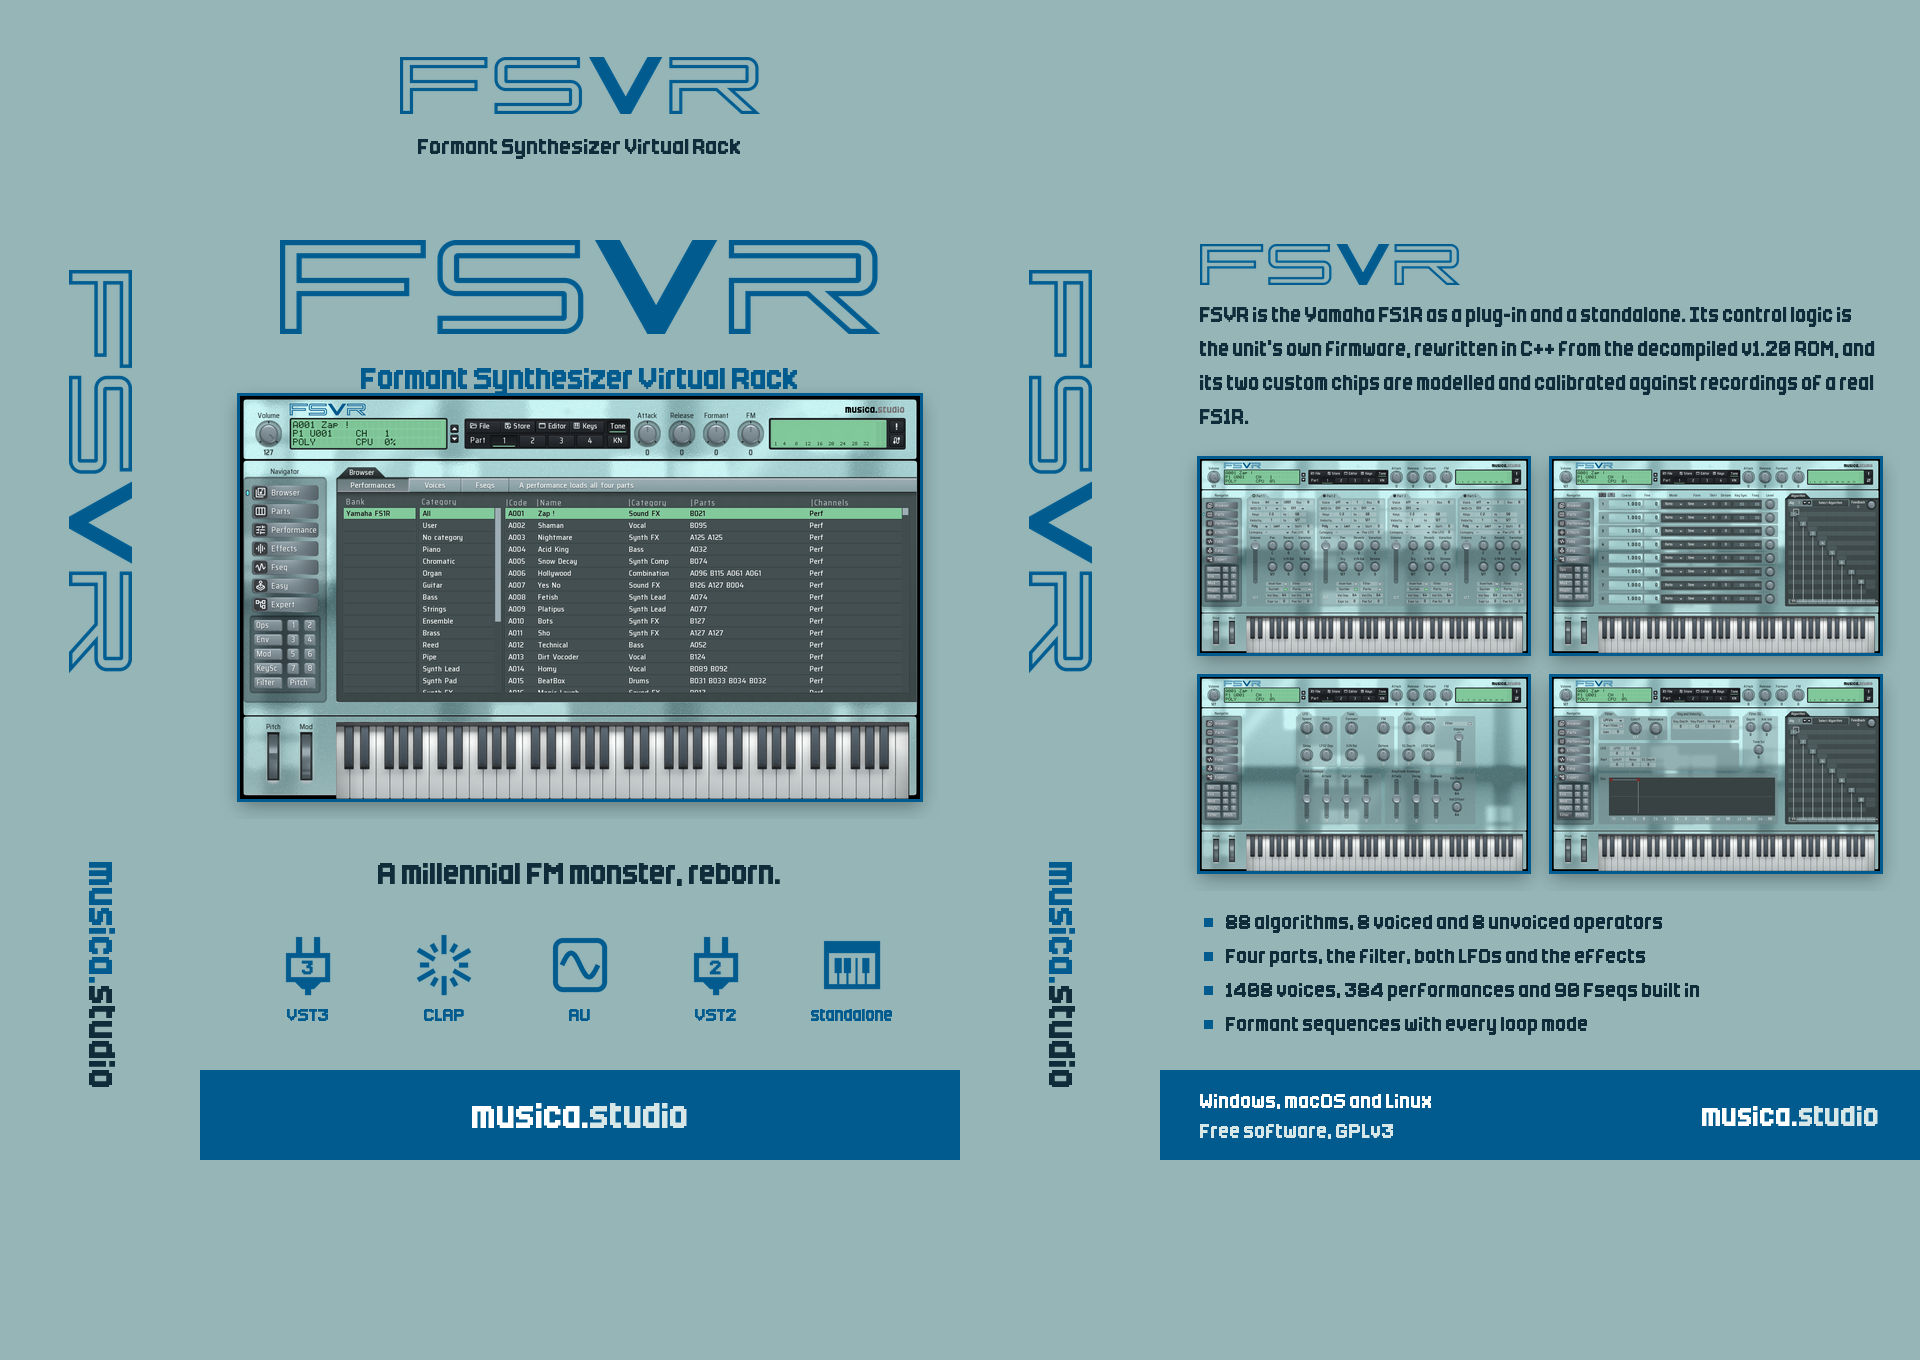
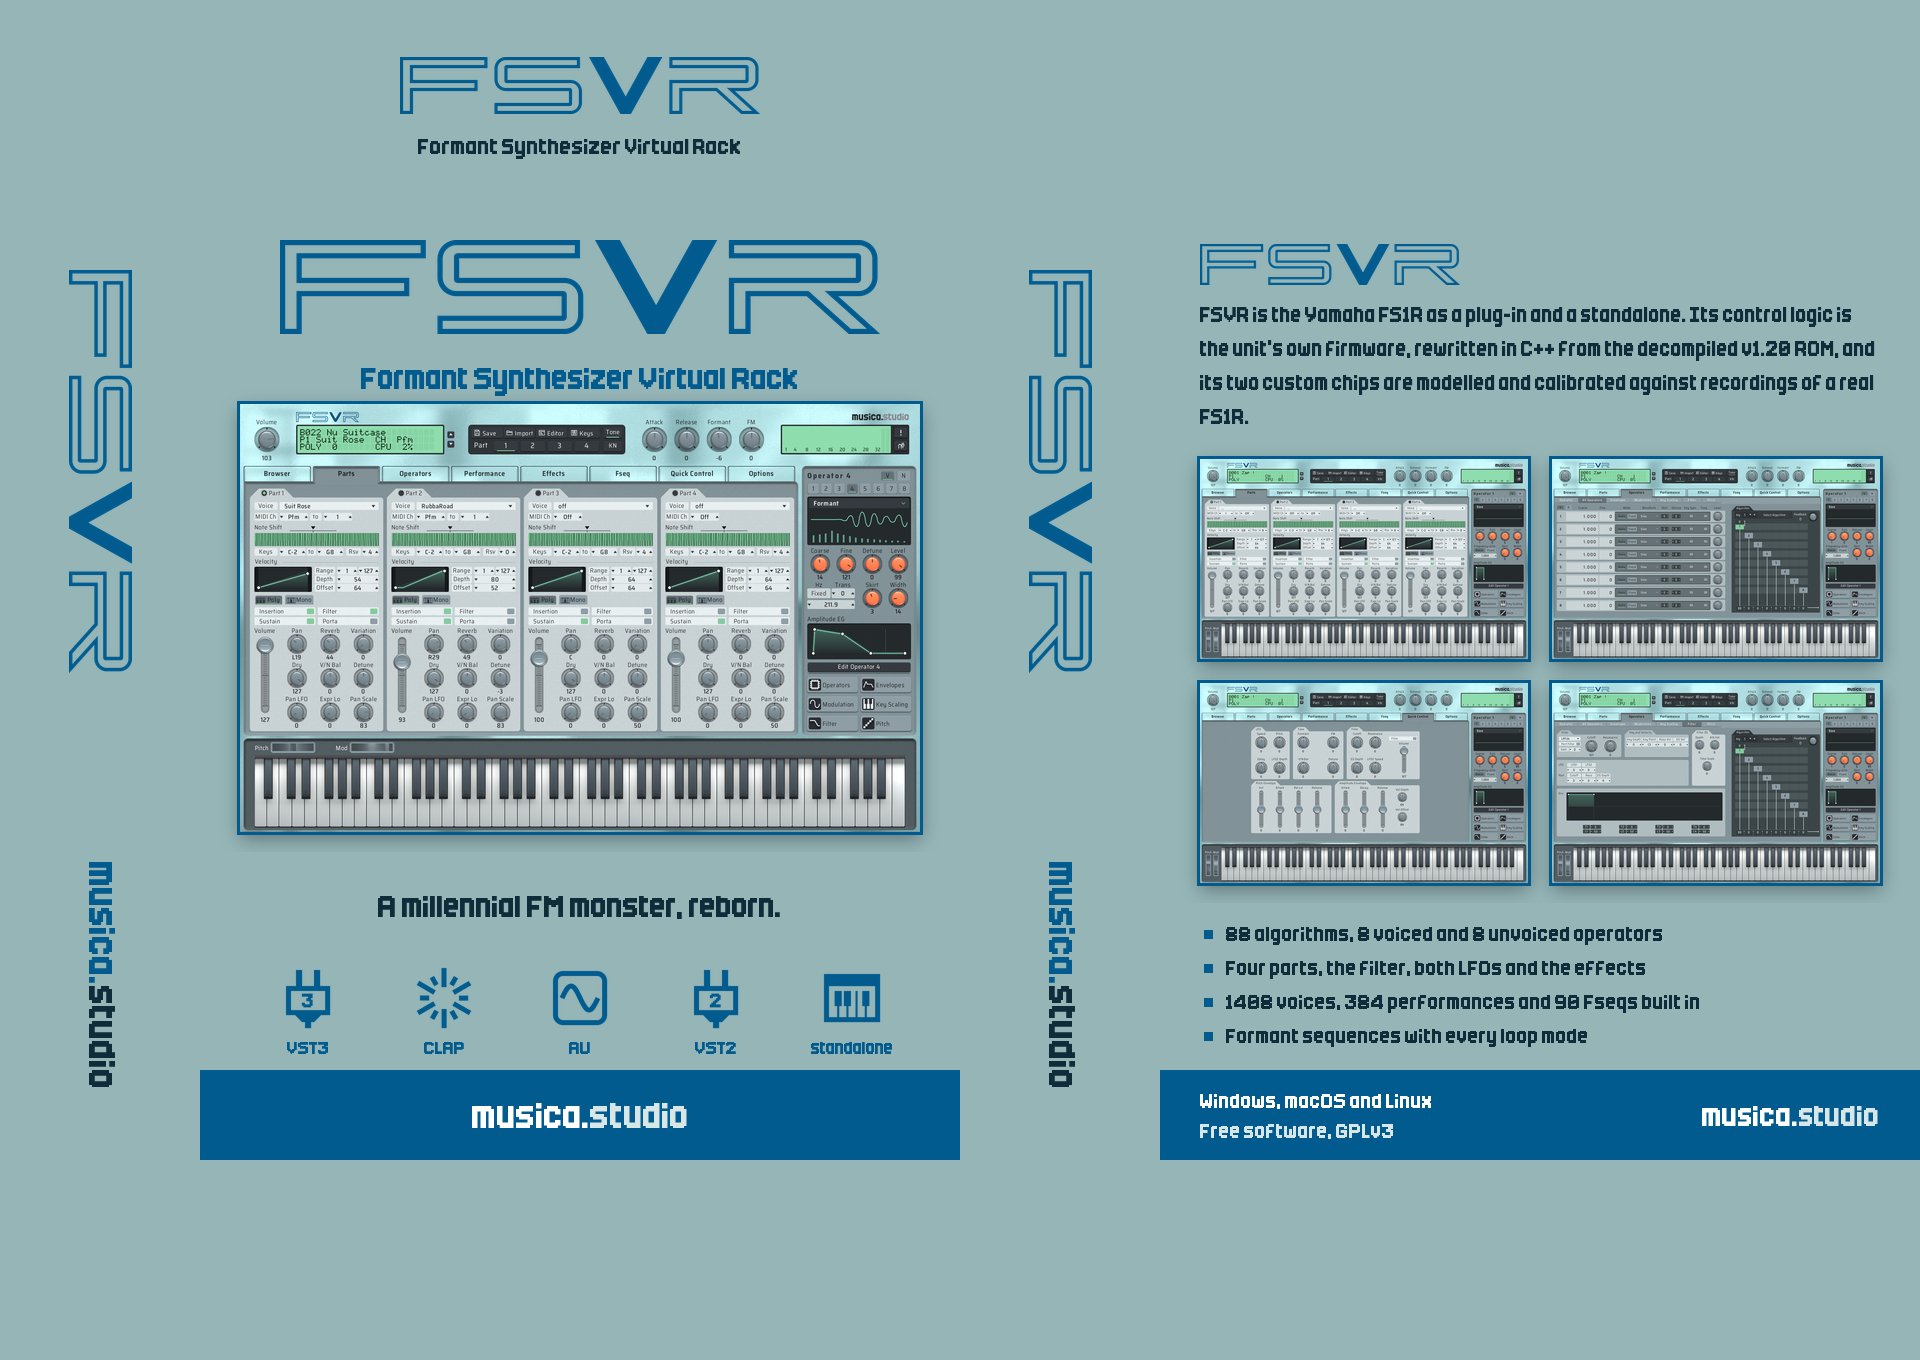
The box's front is the README's screenshot of the Parts page, a few pixels lower under the title
make_map.py takes FSVR's docs/fsvr_standalone.png for the front instead of rendering the library page, so the front shows the released editor with voices loaded. The back's four pages are re-rendered from the current skin.

Changed region(s): [[0.125, 0.2779, 0.5, 0.7721], [0.625, 0.3397, 1.0, 0.7721], [0.125, 0.6794, 0.1875, 0.7721]]

diff --git a/product/make_map.py b/product/make_map.py
@@ -5,9 +5,10 @@
 #   [L ][ front ][R ][ back ]
 #         [bottom]
 #
-# The front carries the wordmark and the editor, the back the description and four more pages,
-# both spines the wordmark. The screenshots are rendered from FSVR's skin by Hollow's hollow-render
-# (built by FSVR's `build.bat plugin`), so they follow the skin; the wordmark is fsvr_wordmark.svg,
+# The front carries the wordmark and the README's screenshot (FSVR's docs/fsvr_standalone.png), the
+# back the description and four more pages, both spines the wordmark. The back's pages are rendered
+# from FSVR's skin by Hollow's hollow-render (built by FSVR's `build.bat plugin`), so they follow the
+# skin; the wordmark is fsvr_wordmark.svg,
 # rasterized by ImageMagick. Needs Pillow, ImageMagick and the licensed "Analog Whispers.ttf" in the
 # folder above.
 #   python product/make_map.py [path to FSVR]      (default ../FSVR)
@@ -48,7 +49,11 @@ def shot(view, width):
     state, out = os.path.join(TMP, view + '.txt'), os.path.join(TMP, view + '.png')
     open(state, 'w', newline='\n').write('hollow-state 1\nui {"embeds":{"pages":{"view":"%s"}}}\n' % view)
     subprocess.run([render, os.path.join(FSVR, 'plugin', 'skin'), 'main', out, state], check=True)
-    im = Image.open(out).convert('RGB')
+    return scaled(out, width)
+
+
+def scaled(path, width):
+    im = Image.open(path).convert('RGB')
     return im.resize((width, round(im.height * width / im.width)), Image.LANCZOS)
 
 
@@ -107,9 +112,9 @@ def main():
     wm = wordmark(600, INK)
     m.alpha_composite(wm, (fx + (BW - wm.width) // 2, fy + 40))
     centre(d, 'Formant Synthesizer Virtual Rack', font(38), fx + BW // 2, fy + 64 + wm.height, INK)
-    main_shot = shot('page_library', BW - 80)
-    framed(m, main_shot, fx + 40, fy + 196)
-    y = fy + 196 + main_shot.height + 34
+    main_shot = scaled(os.path.join(FSVR, 'docs', 'fsvr_standalone.png'), BW - 80)
+    framed(m, main_shot, fx + 40, fy + 204)
+    y = fy + 204 + main_shot.height + 34
     centre(d, 'A millennial FM monster, reborn.', font(38), fx + BW // 2, y + 20, DARK)
     y += 92
     formats = ['vst3', 'clap', 'au', 'vst2', 'standalone']
